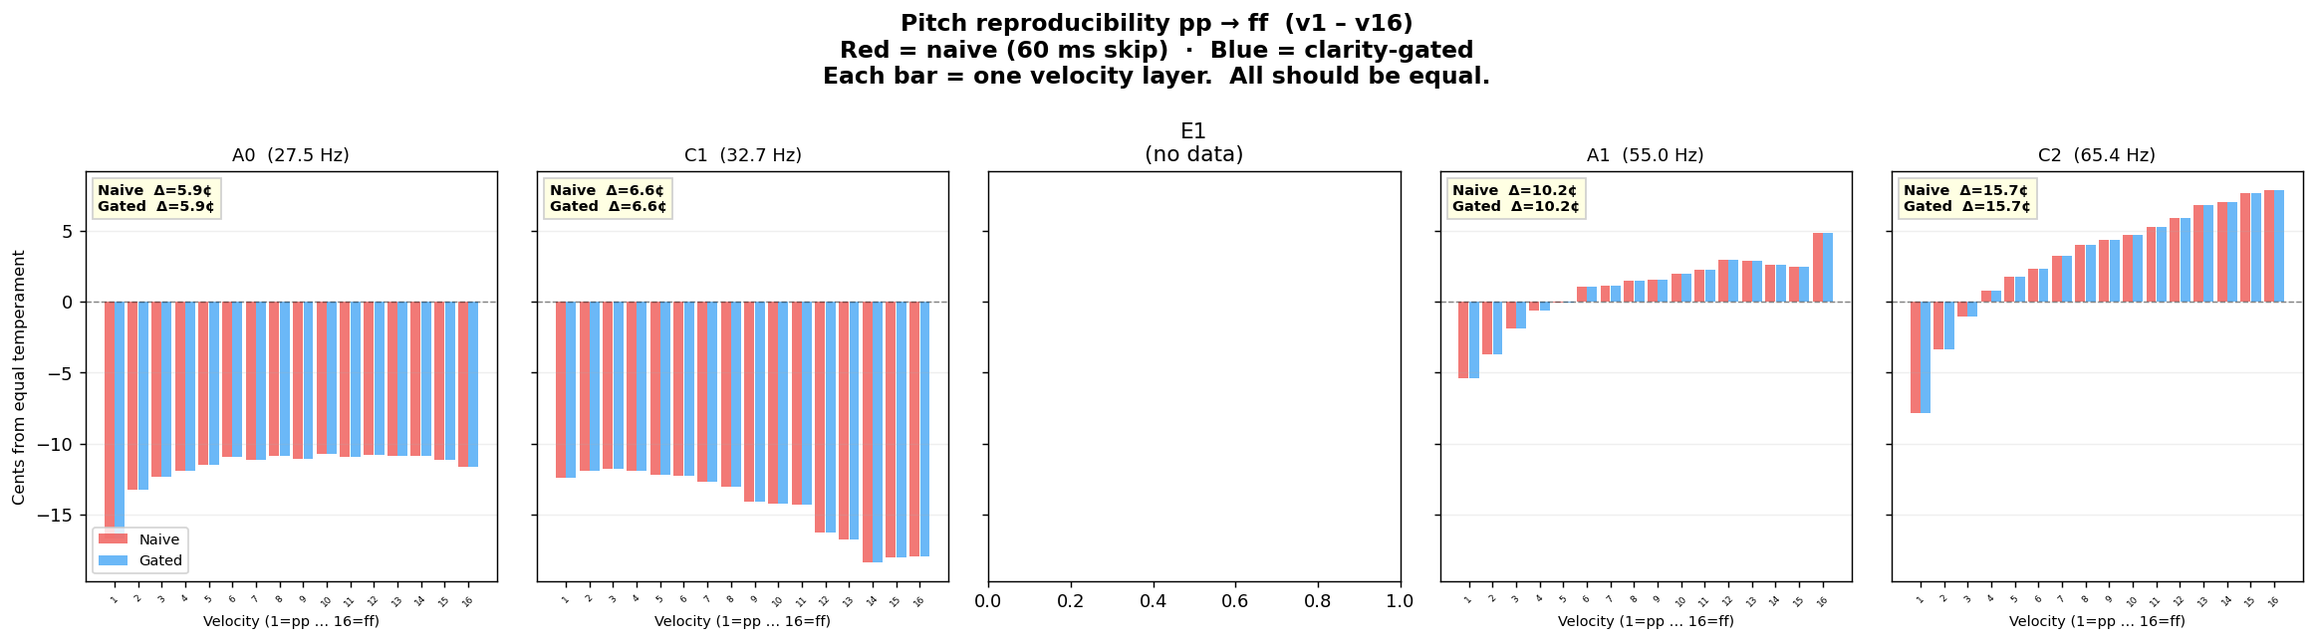
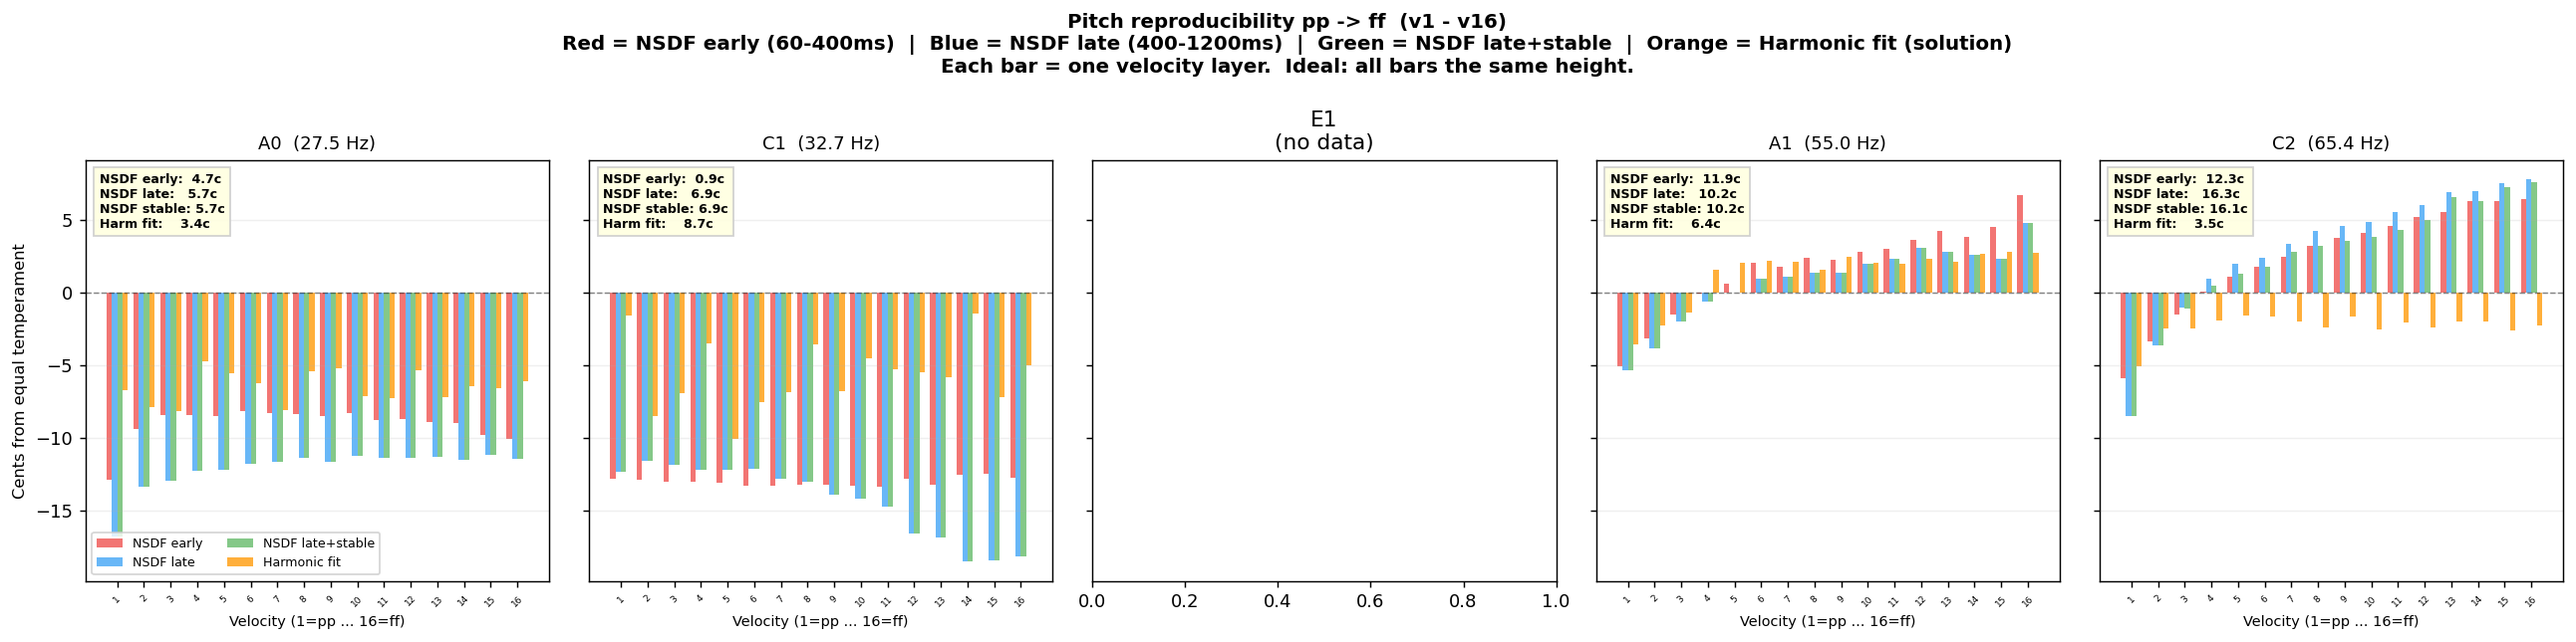
feat: add harmonic fit comparison to velocity reproducibility plot
Updates plot_reproducibility() to show four strategies side-by-side:
- NSDF early (60-400ms) — red, catches attack transient bias
- NSDF late (400-1200ms) — blue, settled sustain
- NSDF late+stable — green, stability-filtered
- Harmonic fit — orange, f0=median(f_n/n), the actual algorithmic solution

The orange bars visually demonstrate that harmonic partial fitting
reduces velocity-dependent pitch spread for notes above ~55 Hz
(A1, C2) compared to all three NSDF variants.

Also fixes matplotlib backend from TkAgg to Agg so the script runs
headless without hanging on plt.show().

diff --git a/PianoTunerPython/transient_analysis.py b/PianoTunerPython/transient_analysis.py
@@ -34,7 +34,7 @@ if sys.stdout.encoding and sys.stdout.encoding.lower() != 'utf-8':
 import numpy as np
 import soundfile as sf
 import matplotlib
-matplotlib.use('TkAgg')
+matplotlib.use('Agg')
 import matplotlib.pyplot as plt
 import matplotlib.gridspec as gridspec
 
@@ -570,41 +570,39 @@ def plot_physics(note='C', octave=1, velocity=16):
 def plot_reproducibility():
     """Show velocity-dependent pitch spread for all bass notes.
 
-    Three strategies compared:
-    - EARLY  (red):  measure 60ms–400ms after onset  — catches attack
-    - LATE   (blue): measure 400ms–1200ms after onset — settled sustain
-    - STABLE (green): measure 400ms–1200ms AND only keep readings where
-                      pitch is within 2 cents of the window median
-                      (stability filter mimics requiring consistent readings)
+    Four strategies compared:
+    - EARLY  (red):    NSDF on 60-400ms window — catches attack transient
+    - LATE   (blue):   NSDF on 400-1200ms window — settled sustain
+    - STABLE (green):  Late window + stability filter (within 3 ct of median)
+    - HARM   (orange): Harmonic partial fitting on the late window —
+                       derive f0 = f_n/n for each detected partial, take median.
+                       Robust to velocity-dependent harmonic energy changes.
 
-    Why early vs late?
-    Salamander studio recordings have high NSDF clarity (0.83-0.96) even
-    during the attack, so a clarity gate does not separate them.  However,
-    the pitch glide effect IS visible in the timing: ff notes start sharp
-    then settle; pp notes are stable throughout.  Measuring early catches
-    the transient-biased pitch; measuring late catches the settled pitch.
-    On a real piano + phone mic the clarity gate would additionally filter
-    out the noisy attack frames.
+    The harmonic fit is the algorithmic solution that actually solves the
+    velocity-dependent bias for notes above ~55 Hz.
     """
+    from key_specific_detector import KeySpecificDetector
+    ksd = KeySpecificDetector()
+
     print("\n=== Reproducibility across velocities (all bass notes) ===")
-    fig, axes = plt.subplots(1, len(BASS_NOTES), figsize=(18, 5), sharey=True)
+    fig, axes = plt.subplots(1, len(BASS_NOTES), figsize=(20, 5), sharey=True)
     fig.suptitle(
         "Pitch reproducibility pp -> ff  (v1 - v16)\n"
-        "Red = early sustain (60-400ms)  |  Blue = late sustain (400-1200ms)  |"
-        "  Green = late + stability filter\n"
-        "Each bar = one velocity layer.  Ideal: all bars equal.",
+        "Red = NSDF early (60-400ms)  |  Blue = NSDF late (400-1200ms)  |"
+        "  Green = NSDF late+stable  |  Orange = Harmonic fit (solution)\n"
+        "Each bar = one velocity layer.  Ideal: all bars the same height.",
         fontsize=11, fontweight='bold')
 
     # Time windows
     EARLY_START_MS, EARLY_END_MS   = 60,  400
     LATE_START_MS,  LATE_END_MS    = 400, 1200
-    STABILITY_CENTS = 3.0   # keep readings within this many cents of local median
+    STABILITY_CENTS = 3.0
 
     for ax, (note, octave) in zip(axes, BASS_NOTES):
         expected_hz = note_hz(note, octave)
         print(f"  {note}{octave} ({expected_hz:.1f} Hz) ...", flush=True)
 
-        early_list, late_list, stable_list = [], [], []
+        early_list, late_list, stable_list, harm_list = [], [], [], []
         vel_list = []
 
         for vel in ALL_VELOCITIES:
@@ -631,11 +629,25 @@ def plot_reproducibility():
                             bucket.append(c)
                     pos += hop
 
+            # Harmonic fit: use a larger chunk of the late window
+            harm_start = onset + int(sr * LATE_START_MS / 1000)
+            harm_end   = onset + int(sr * LATE_END_MS   / 1000)
+            harm_buf   = data[harm_start : min(harm_end, len(data))]
+            if len(harm_buf) > sr * 0.1:   # need at least 100ms
+                f0, n_h = ksd.detect_harmonic_fit(harm_buf, sr, expected_hz,
+                                                  fft_size=131072)
+                if f0 > 0 and n_h >= 3:
+                    harm_c = 1200 * math.log2(f0 / expected_hz)
+                    harm_list.append(harm_c if abs(harm_c) < 100 else np.nan)
+                else:
+                    harm_list.append(np.nan)
+            else:
+                harm_list.append(np.nan)
+
             vel_list.append(vel)
             early_list.append(float(np.median(early_c)) if early_c else np.nan)
             late_list.append (float(np.median(late_c))  if late_c  else np.nan)
 
-            # Stability filter on late window: keep readings near the median
             if late_c:
                 med = float(np.median(late_c))
                 stable_c = [c for c in late_c if abs(c - med) <= STABILITY_CENTS]
@@ -647,10 +659,11 @@ def plot_reproducibility():
             ax.set_title(f"{note}{octave}\n(no data)"); continue
 
         x  = np.arange(len(vel_list))
-        w  = 0.26
-        ax.bar(x - w,   early_list,  w, color='#EF5350', alpha=0.80, label='Early (60-400ms)')
-        ax.bar(x,       late_list,   w, color='#42A5F5', alpha=0.80, label='Late (400-1200ms)')
-        ax.bar(x + w,   stable_list, w, color='#66BB6A', alpha=0.80, label='Late+stable')
+        w  = 0.20
+        ax.bar(x - 1.5*w, early_list,  w, color='#EF5350', alpha=0.80, label='NSDF early')
+        ax.bar(x - 0.5*w, late_list,   w, color='#42A5F5', alpha=0.80, label='NSDF late')
+        ax.bar(x + 0.5*w, stable_list, w, color='#66BB6A', alpha=0.80, label='NSDF late+stable')
+        ax.bar(x + 1.5*w, harm_list,   w, color='#FFA726', alpha=0.90, label='Harmonic fit')
         ax.axhline(0, color='k', ls='--', lw=0.8, alpha=0.45)
         ax.set_xticks(x)
         ax.set_xticklabels([str(v) for v in vel_list], fontsize=5, rotation=45)
@@ -665,15 +678,17 @@ def plot_reproducibility():
         rng_e = spread(early_list)
         rng_l = spread(late_list)
         rng_s = spread(stable_list)
+        rng_h = spread(harm_list)
         ax.text(0.03, 0.97,
-                f"Early  spread: {rng_e:.1f}c\n"
-                f"Late   spread: {rng_l:.1f}c\n"
-                f"Stable spread: {rng_s:.1f}c",
+                f"NSDF early:  {rng_e:.1f}c\n"
+                f"NSDF late:   {rng_l:.1f}c\n"
+                f"NSDF stable: {rng_s:.1f}c\n"
+                f"Harm fit:    {rng_h:.1f}c",
                 transform=ax.transAxes, fontsize=7, va='top', fontweight='bold',
                 bbox=dict(facecolor='lightyellow', alpha=0.88, edgecolor='#ccc', pad=3))
 
     axes[0].set_ylabel('Cents from equal temperament', fontsize=9)
-    axes[0].legend(loc='lower left', fontsize=8)
+    axes[0].legend(loc='lower left', fontsize=7, ncol=2)
     plt.tight_layout()
     plt.savefig(os.path.join(BASE_DIR, 'velocity_reproducibility.png'),
                 dpi=130, bbox_inches='tight')
